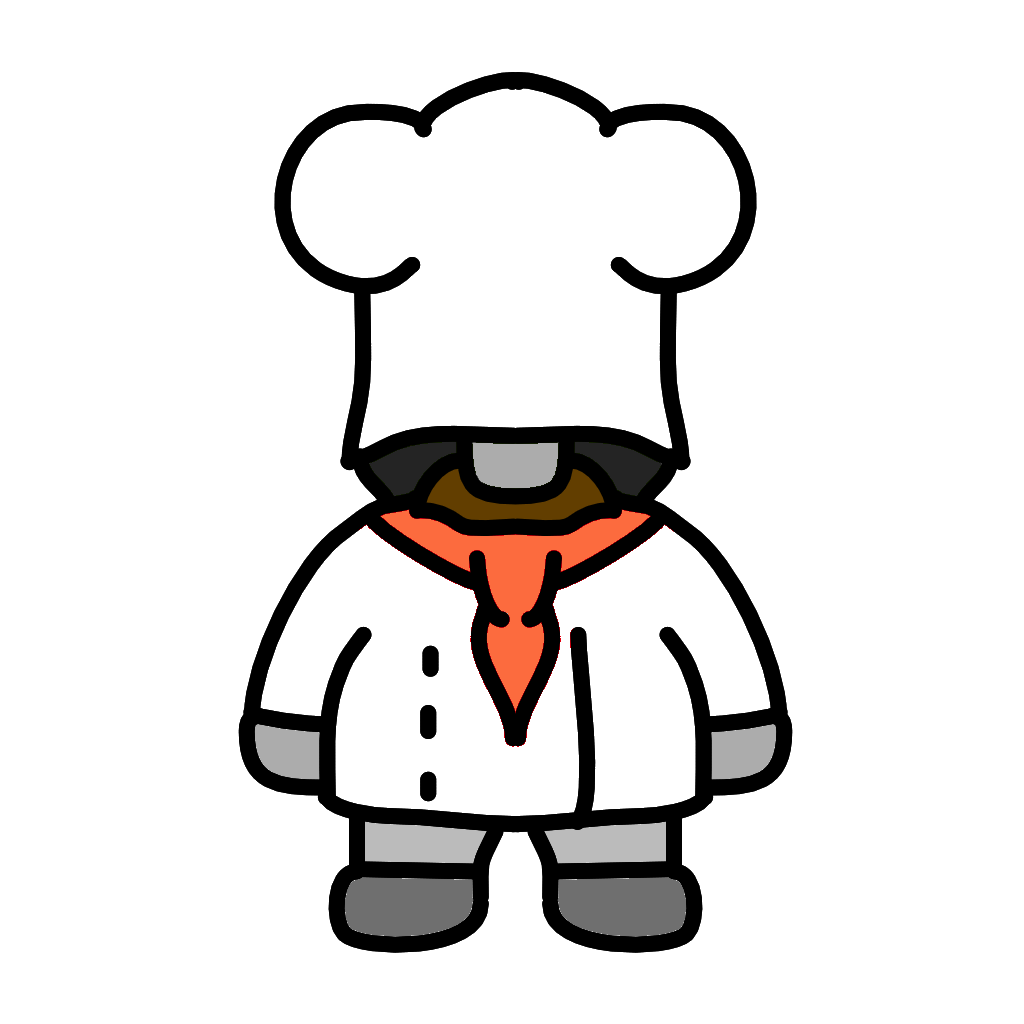
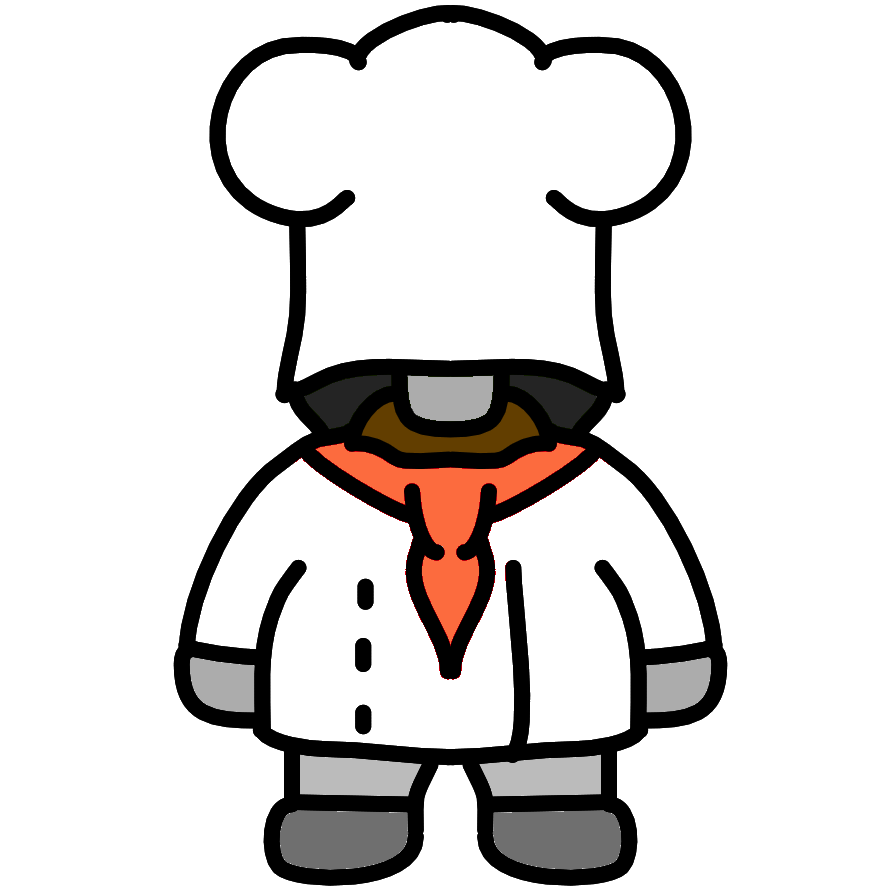
g

Changed region(s): [[0.181, 0.0, 0.8145, 0.9955]]

diff --git a/styles.css b/styles.css
@@ -103,10 +103,6 @@ body {
   background: linear-gradient(to bottom, #f9e8c6 0%, #f4c88c 100%);
 }
 
-.completed {
-    background-color: gold;
-}
-
 #toggleSound::after {
   content: "Toggle Sound";
 }
@@ -246,7 +242,7 @@ body {
 }
 
 #player {
-    background-image: url('Assets/Player Art/Temp Player.PNG');
+    background-image: url('Assets/Player Art/chef.png');
     width: 6vw;
     height: 6vw;
     top: 50%;
